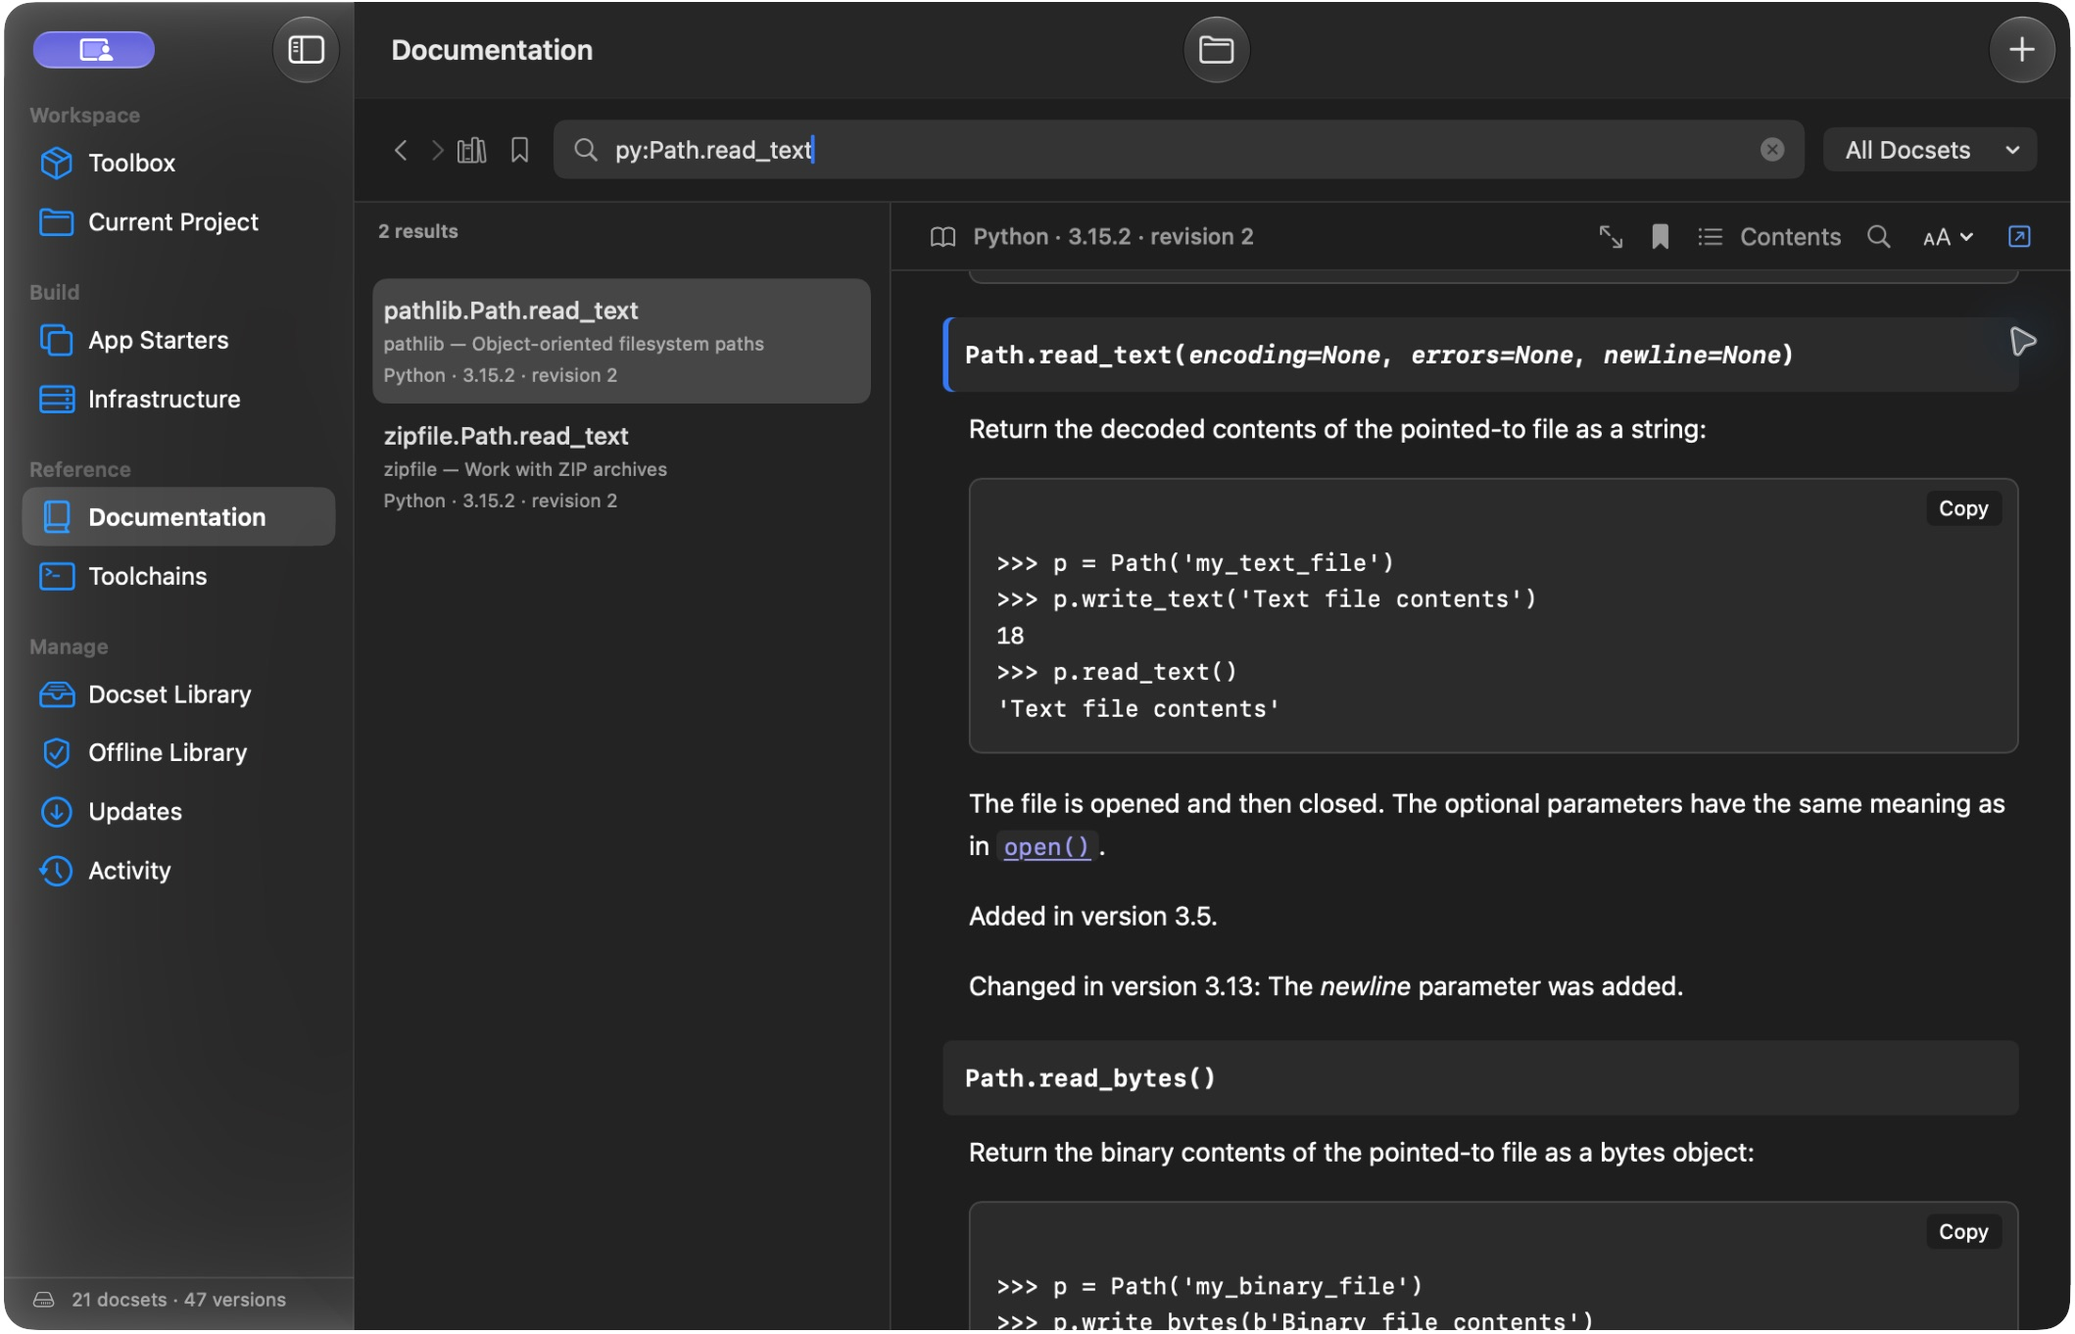
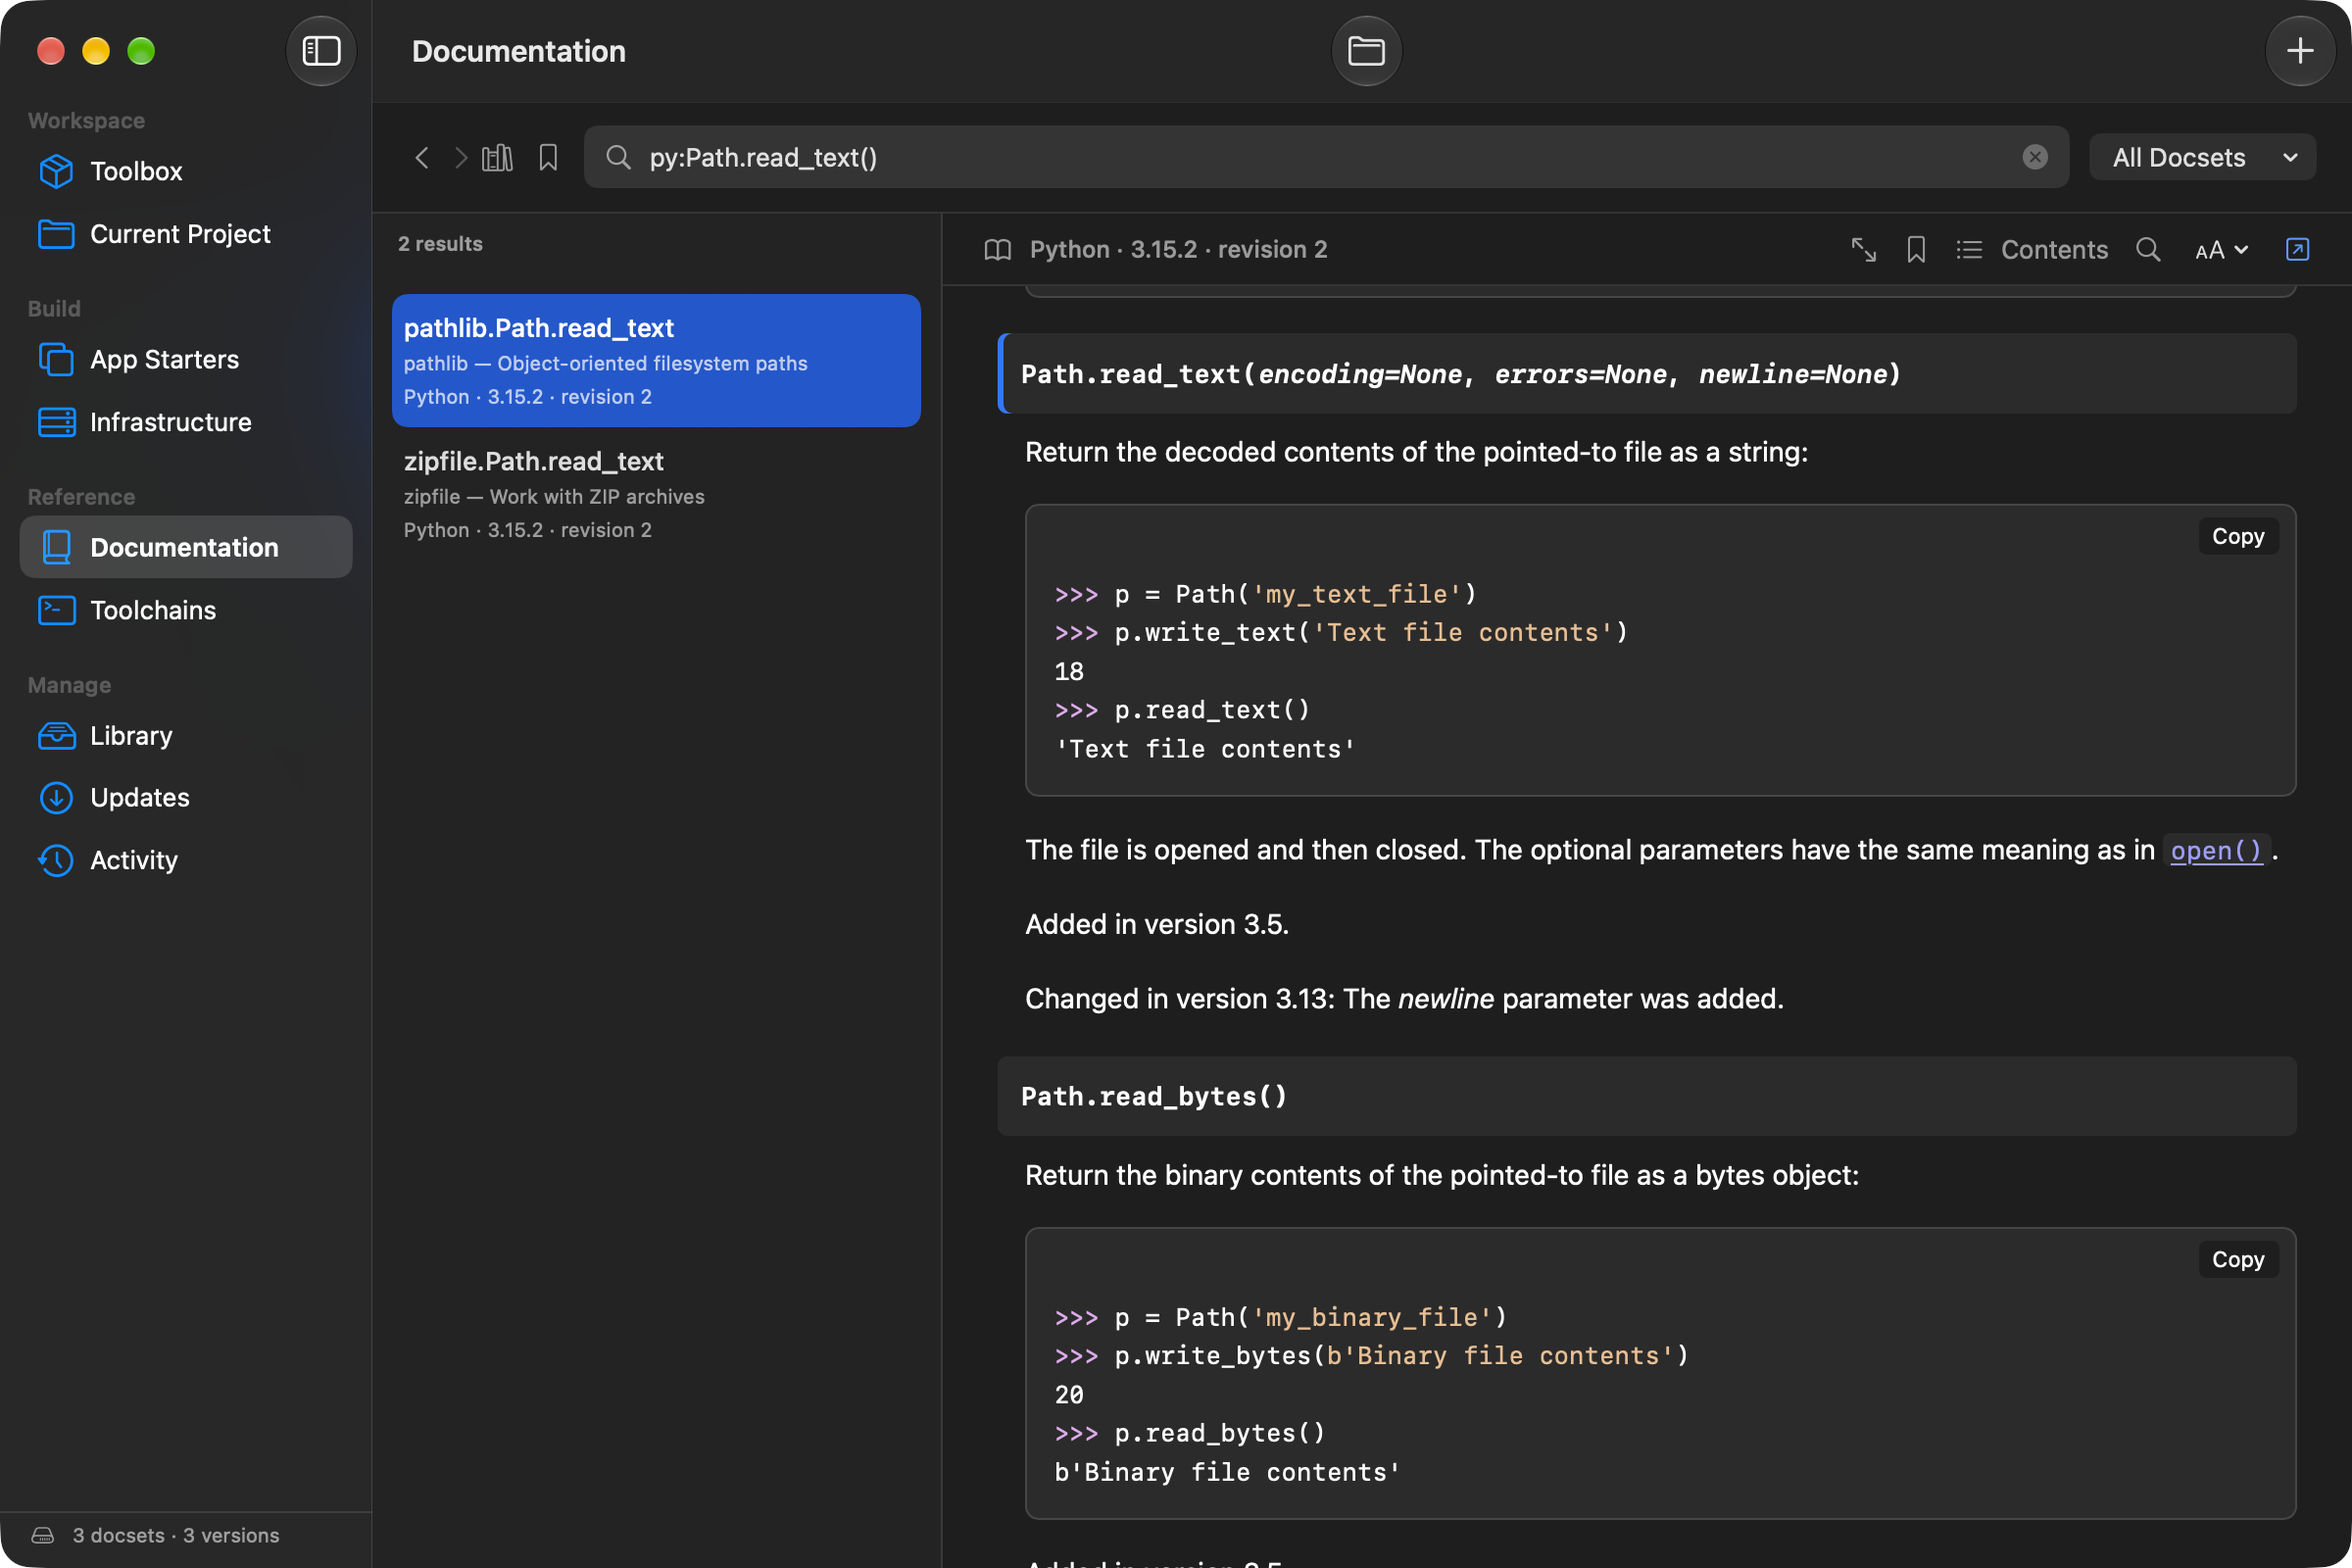
Rewrite the Devline README and refresh screenshots
Explain the offline workflow with a short quick start and native Retina captures. Remove old screenshots that show pointer overlays.

diff --git a/README.md b/README.md
@@ -1,59 +1,34 @@
 # Devline
 
-Devline is a Mac app and CLI for trying frameworks and building small proofs of concept offline. It keeps documentation, project starters with their dependencies, and local service images on your Mac.
+Devline is a macOS app and CLI for trying frameworks and building prototypes offline. Prepare a project while you’re online, then look up APIs, build and test your code, and start local services without a connection. The app and CLI share the same library on your Mac.
 
-Choose what you want to use while you’re connected, then create projects, read the docs, and run local services without internet access. The app and terminal share the same library.
+[Download Devline 0.7.0 for Apple Silicon](https://github.com/fpl0/devline/releases/download/v0.7.0/Devline-macos-arm64.dmg) · [Usage guide](USAGE.md)
 
-Open a project and Devline brings its dependencies, matching references, and service images together. **Prepare Offline** fills the missing pieces and checks the result. Recent projects on the Toolbox take you back to where you were working.
+![Devline Toolbox with installed documentation, starters, image archives, and detected toolchains](press/toolbox-dark.png)
 
-![Devline Toolbox showing installed docsets, app starters, image archives, and detected toolchains](press/toolbox-dark.png)
+## What you can do
 
-## Keep the docs you use
+- **Read the docs for your project.** Search official references with code examples and links between installed pages. Devline matches documentation to supported project dependencies and lets you pin an exact release.
+- **Start a project or bring your own.** Create a FastAPI service, a React app, or a native SwiftUI app from a starter with dependencies included. For an existing project, **Prepare Offline** collects what’s missing and tests a copy with internet access blocked, leaving your source and lockfiles intact.
+- **Run local services.** Save exact images of services like PostgreSQL, Redis, and RabbitMQ while connected. Restore and start them offline with a local Docker engine and Compose.
 
-Install documentation for the languages and frameworks you want from **Library**. Then look up `py:Path.read_text()` or `go:http.Handler` in **Documentation**, with code examples and links to other installed pages. **Browse Project Docs** takes you to your project's references. Devline reads supported manifests and lockfiles to match versions, and you can pin a different version for that project. A starter's included references open at the version it uses.
+![Python documentation in Devline showing the Path.read_text signature and a code example](press/docs-python-dark.png)
 
-For SwiftUI, choose **Prepare from Xcode** in **Library → From This Mac**. Devline indexes Apple’s API declarations, comments, and available examples from your selected SDK. The reference stays on the Mac where you prepare it. Apple’s website tutorials and illustrations are separate. [SwiftUI setup](USAGE.md#prepare-the-swiftui-sdk-reference)
+## Get started
 
-![Python documentation showing the Path.read_text method signature and a code example](press/docs-python-dark.png)
+Devline requires an Apple Silicon Mac running macOS 14 or later. Open the DMG, drag **Devline** into **Applications**, and follow the first-launch instructions in the DMG.
 
-## Start with dependencies included
+Open a project folder with **⌘O**, or pick a starter in **App Starters**. Install the matching toolchain if Devline reports it missing. In **Current Project**, choose **Prepare Offline** to see what’s ready and what still needs attention.
 
-Pick a release in **App Starters**. For example, start a FastAPI or Chi API, try a React/Vite app, write a Playwright browser test, or build a desktop app with Tauri or SwiftUI. There are starters for Go, Rust, Python, Ruby, C#/.NET, Java, Elixir, Node.js/TypeScript, and Swift. Each includes its package dependencies and an offline test. The SwiftUI starter needs Xcode 16 or later. The bundled Playwright browser requires macOS 26.5 or later.
+### From the terminal
 
-**Toolchains** shows which compilers, interpreters, and SDKs Devline finds on this Mac. Install the matching toolchain and any listed native build prerequisites separately. When you create a project, Devline runs its tests with external networking denied before saving it to your chosen folder. In **Current Project**, you can prepare and verify supported existing projects while keeping their source and lockfiles intact.
-
-Projects from bundled starters group Devline's configuration, scripts, and offline files under `.devline/`. Run `./devline.sh --help` for the available commands or `./devline.sh test` to run the starter's tests. Framework files such as `go.mod` and `package.json` stay beside your code so their usual tools can find them.
-
-![App Starters showing the installed FastAPI HTTP API release and its packaged dependencies](press/starters-dark.png)
-
-## Bring the services your project needs
-
-While connected, use **Infrastructure** to archive services such as PostgreSQL, Redis, RabbitMQ, or an S3-compatible store. With a local Docker engine running and Compose installed, Devline can restore those exact images from its vault and start them on local ports without pulling them again. For example, the Chi Taskboard starter uses PostgreSQL for storage and Redis for caching. Stop the services from **Current Project** and the data volumes stay on disk.
-
-Choose **Read Offline Reference** on a service to open its publisher documentation. **Offline Reference Coverage** lists the included material and any gaps. [Infrastructure documentation](USAGE.md#devline-help-and-reference-coverage)
-
-When adding a service, you can also choose its recommended client library for your project’s language. The choice is optional. Devline adds the selected packages, saves their dependencies locally, and checks the build before applying the change.
-
-Before going offline, use **Prepare Offline** in **Current Project** to prepare its docs, dependencies, and pinned image archives together. The result shows anything still needed, such as a missing toolchain or a stopped Docker engine. **Updates** checks the content sources together and can prepare newer releases without changing your project's pins. You can also export portable docsets, starters, and image archives to take to another compatible Mac.
-
-![Infrastructure showing PostgreSQL 18.6 archived in Devline and loaded in Docker](press/infrastructure-dark.png)
-
-## Install
-
-On an Apple Silicon Mac with macOS 14 or later, open the DMG and drag **Devline** into **Applications**. Use the DMG for upgrades to 0.7.0 as well. It includes first-launch instructions for the ad hoc-signed build, which ships without Apple notarization. [Download Devline 0.7.0](https://github.com/fpl0/devline/releases/download/v0.7.0/Devline-macos-arm64.dmg)
-
-## Do the same work from the terminal
-
-In **Settings → Command Line**, select **Install CLI**. To try the Chi API, first prepare the starter and its docs. The next two commands work offline with the matching Go toolchain installed.
+In **Settings → Command Line**, choose **Install CLI**. With a compatible Go toolchain installed, prepare the Chi starter and its docs, then create and test a small API offline.
 
 ```sh
 devline prepare go/chi-api@1.2.0
 devline --offline docs show 'go:http.Handler'
 devline --offline new go/chi-api@1.2.0 ./status-api
-cd ./status-api
-./devline.sh test
+devline --offline project --path ./status-api run -- go test ./...
 ```
 
-For an existing project, `devline project --path ./service prepare` prepares its complete offline environment. Use `devline updates check` and `devline updates apply` to keep the installed content current.
-
-The [usage guide](USAGE.md) covers project preparation, services, updates, and library transfer. [Source layout](USAGE.md#source-layout) · [Build and validate](USAGE.md#build-and-validate) · [Core protocol](CONTRACT.md) · [Third-party notices](THIRD_PARTY_NOTICES.md)
+[Editor integrations](integrations/README.md) · [Build from source](USAGE.md#build-and-validate) · [Core protocol](CONTRACT.md) · [Third-party notices](THIRD_PARTY_NOTICES.md)

diff --git a/USAGE.md b/USAGE.md
@@ -116,10 +116,6 @@ devline --offline docs search 'tauri:commands'
 
 Both projects support `./devline.sh run`, `./devline.sh build`, and `./devline.sh test`. Build output stays under `target/` for Tauri and `.build/` for SwiftUI. The generated `.app` is signed locally for development. Tauri’s recipe refreshes compatible 2.x dependencies, vendors them, and verifies the result. The SwiftUI recipe rebuilds against the selected local SDK.
 
-![Tauri desktop starter inspecting Unicode text](press/tauri-starter.jpg)
-
-![SwiftUI Idea Board with locally saved notes](press/swiftui-starter-dark.png)
-
 The desktop documentation includes an official Tauri snapshot and **The Swift Programming Language**.
 
 ### Prepare the SwiftUI SDK reference
@@ -330,7 +326,7 @@ Use **Read Devline Guide** or `devline guide` for setup instructions specific to
 - [`integrations/`](integrations/) contains the VS Code and Neovim adapters and their tests. The adapters pass the selected symbol and its context to Devline in a `devline://search` URL.
 - [`data/`](data/) contains the offline library shipped with the app. `docs/` holds publisher reference packs, `help/` holds Devline guides, and `templates/` holds versioned starter payloads and build recipes. `project-adapters/` and `service-clients/` support offline project preparation. After editing `docs-catalog.json` or `templates-catalog.json`, run `python3 scripts/sync-catalog.py` to refresh the combined runtime catalog.
 - [`scripts/`](scripts/) contains the tools and tests for content ingestion, packaging, and releases. `infrastructure-docs/upstream/` holds the publisher inputs used to rebuild the infrastructure reference. [CI workflow](.github/workflows/validate.yml)
-- [`press/`](press/) holds the screenshots used by the README and this guide. [`third-party/`](third-party/) holds redistribution notices and package inputs used by the release build.
+- [`press/`](press/) holds the README screenshots. [`third-party/`](third-party/) holds redistribution notices and package inputs used by the release build.
 
 ## Build and validate
 
